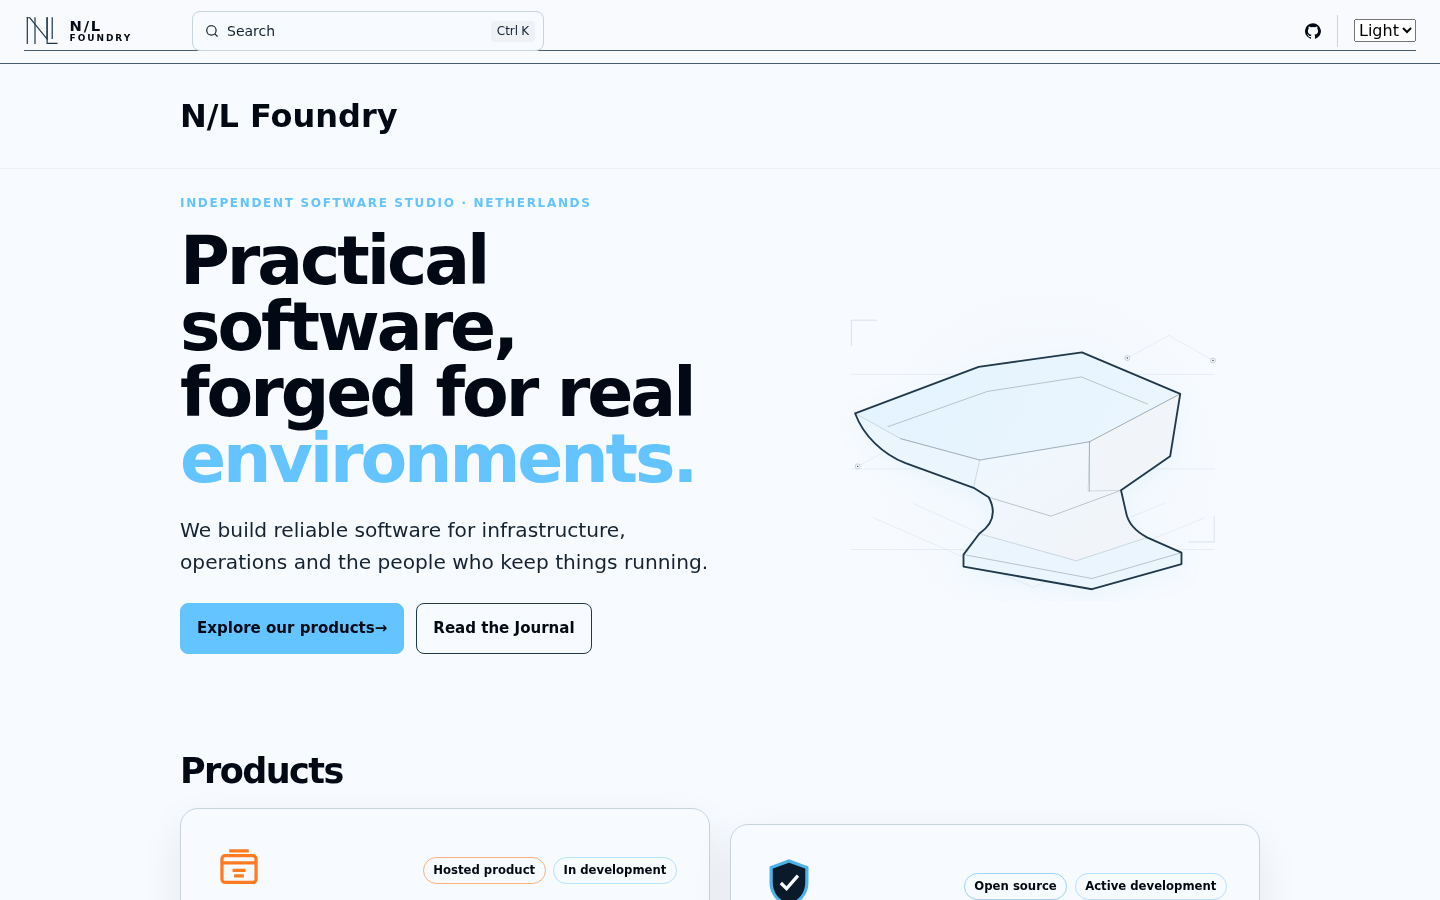
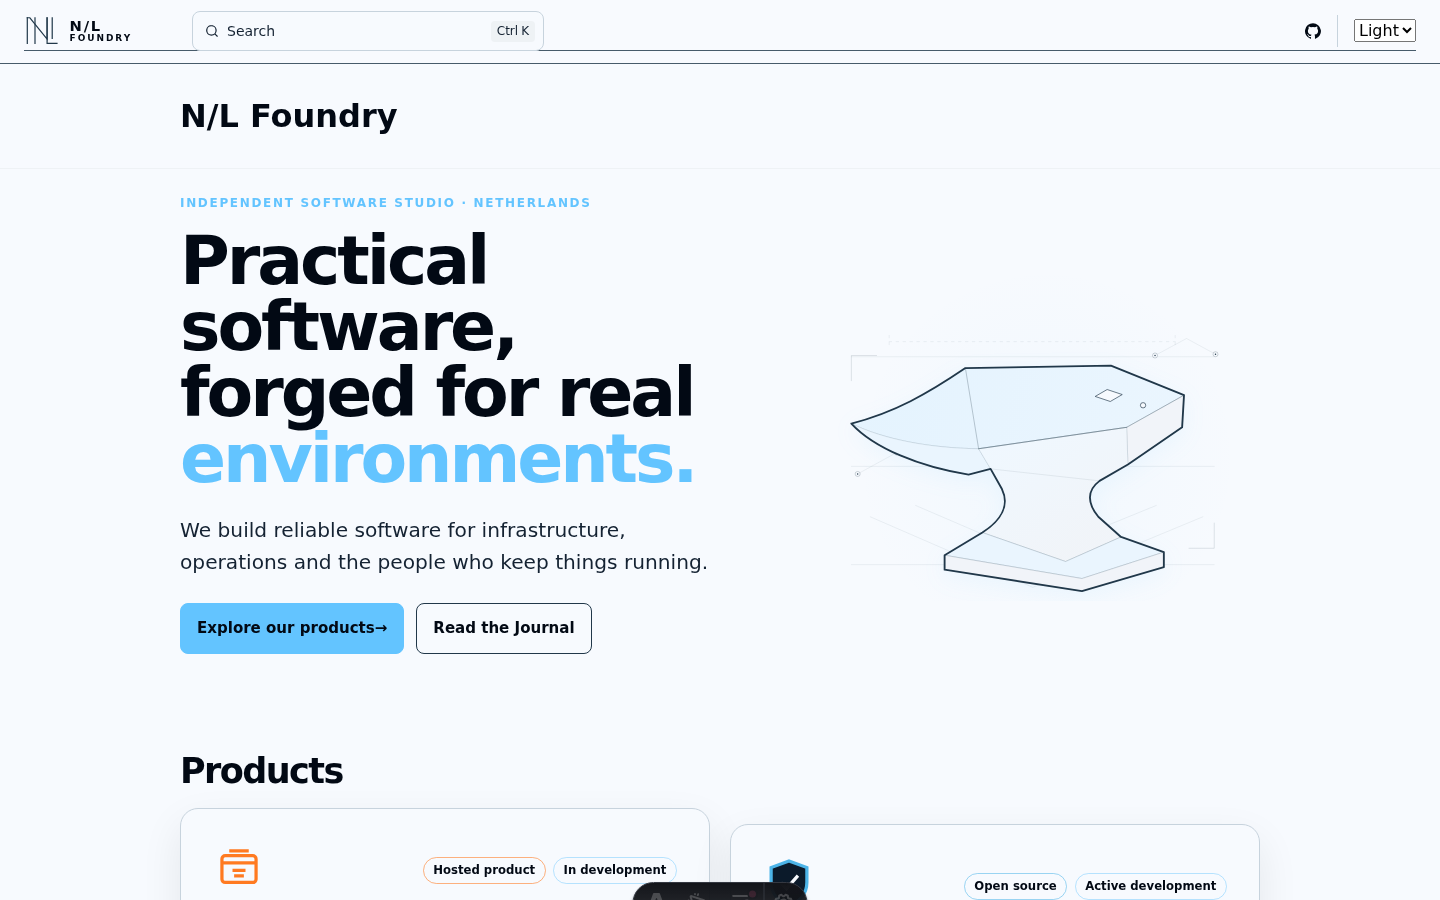
fix(brand): restore anvil recognition in forge hero
Rebuild the theme-aware SVG around a clear horn, face, heel, hardy and pritchel holes, pinched waist, and flared base. Refresh desktop/mobile evidence and document the recognition contract. Luna review: Approve; one-second recognition test passed.

diff --git a/src/styles/custom.css b/src/styles/custom.css
@@ -323,7 +323,7 @@ h4,
 .forge-visual__construction,
 .forge-visual__corners,
 .forge-visual__network,
-.forge-visual__facets {
+.forge-visual__details {
   fill: none;
   stroke-linecap: round;
   stroke-linejoin: round;
@@ -339,6 +339,10 @@ h4,
 
 .forge-visual__corners {
   stroke-width: 1;
+}
+
+.forge-visual__dimension {
+  stroke-dasharray: 4 7;
 }
 
 .forge-visual__node-ring {
@@ -366,20 +370,21 @@ h4,
   vector-effect: non-scaling-stroke;
 }
 
-.forge-visual__plane--top {
-  fill: url('#nlf-forge-top');
+.forge-visual__plane--face {
+  fill: url('#nlf-forge-face');
 }
 
-.forge-visual__plane--side,
-.forge-visual__plane--base {
+.forge-visual__plane--horn,
+.forge-visual__plane--base-top {
   fill: var(--nlf-hero-plane-top);
 }
 
-.forge-visual__plane--core {
-  fill: url('#nlf-forge-core');
+.forge-visual__plane--body {
+  fill: url('#nlf-forge-body');
 }
 
-.forge-visual__plane--far {
+.forge-visual__plane--heel,
+.forge-visual__plane--base-front {
   fill: var(--nlf-hero-plane-deep);
 }
 
@@ -408,9 +413,23 @@ h4,
   vector-effect: non-scaling-stroke;
 }
 
-.forge-visual__facets {
+.forge-visual__details {
   stroke: var(--nlf-hero-line-soft);
   stroke-width: 1.05;
+}
+
+.forge-visual__face-edge {
+  stroke: var(--nlf-hero-line-soft);
+}
+
+.forge-visual__body-edge {
+  stroke: var(--nlf-hero-line-muted);
+}
+
+.forge-visual__hardy-hole,
+.forge-visual__pritchel-hole {
+  fill: var(--sl-color-bg);
+  stroke: var(--nlf-hero-line);
 }
 
 .project-grid,

diff --git a/BRAND_GUIDE.md b/BRAND_GUIDE.md
@@ -75,7 +75,7 @@ Panels use dark layered surfaces, thin steel borders, restrained glow and large 
 Homepage pattern:
 
 - Hero uses left-aligned statement and right-side technical illustration.
-- `src/components/ForgeHero.astro` is the live, vector-first homepage forge illustration. Its five-plane isometric anvil, restrained facet engraving, sparse construction lines, nodes and grounded shadow are inline so the active Starlight theme can style them through semantic tokens. It contains no internal logo and remains subordinate to the homepage statement. The older public SVG and raster fallback remain reference assets only and are not rendered by the homepage.
+- `src/components/ForgeHero.astro` is the live, vector-first homepage forge illustration. Its pointed horn, flat face, squared heel, hardy and pritchel holes, pinched waist and flared base make the anvil silhouette immediately legible. Sparse construction lines, nodes and a grounded shadow remain outside that silhouette, and the active Starlight theme styles the complete illustration through semantic tokens. It contains no internal logo and remains subordinate to the homepage statement. The older public SVG and raster fallback remain reference assets only and are not rendered by the homepage.
 - Product cards should be separated by sufficient spacing and support mobile stacking.
 - Footer includes products, engineering, journal, about, privacy/AI transparency, GitHub, and copyright.
 - No screenshot mockups are used; composition is structural and native in the DOM.
